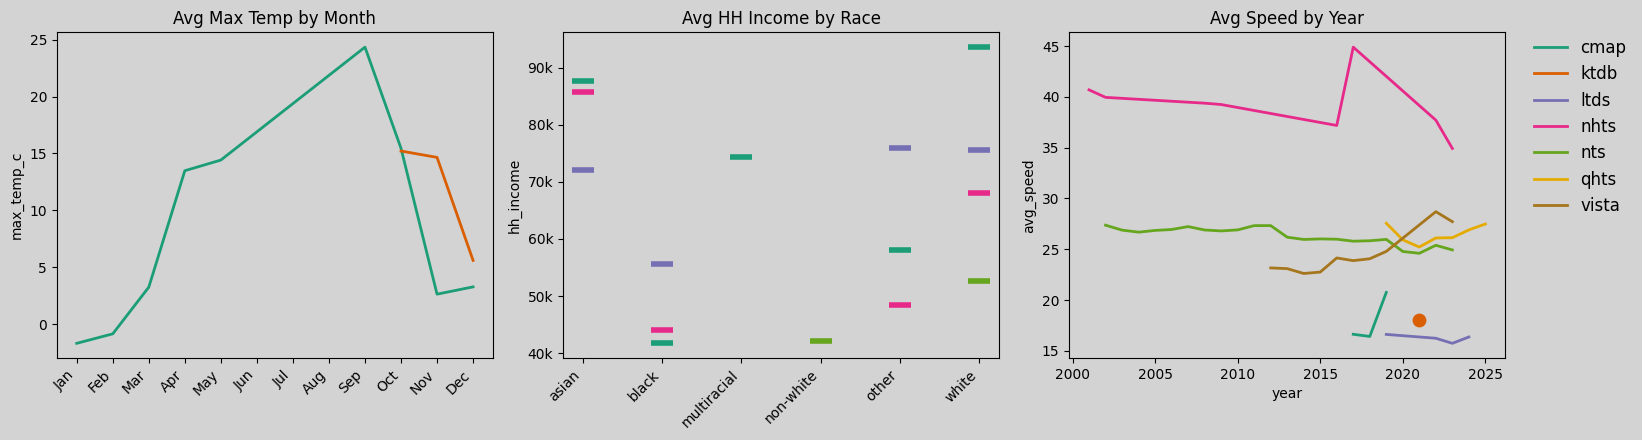
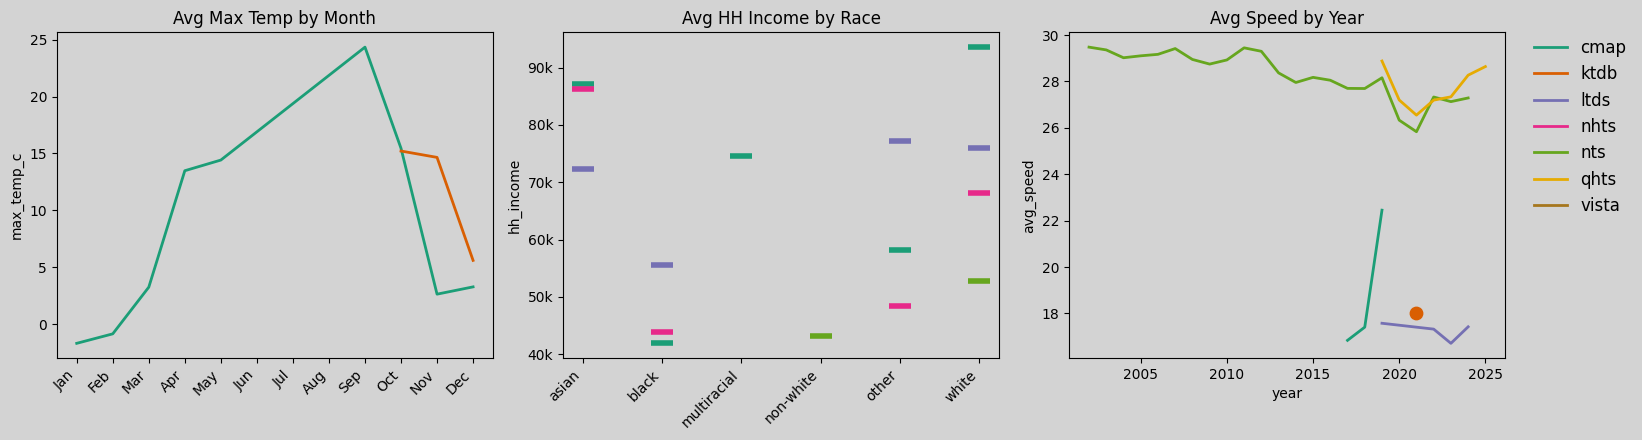
upated for latest

diff --git a/README.md b/README.md
@@ -4,16 +4,16 @@ Foundata is a pipeline for creating reconciled household travel surveys, aimed a
 
 ### Progress
 
-| source | persons | missing data     | trips   | kms (millions) |
-|--------|---------|-----------|---------|-----------------|
-| London UK (LTDS)   | 71,725  | 35%      | 138,735 | 1.4        |
-| UK (NTS)    | 2,676,737 | 22%    | 5,331,101 | 68.0   |
-| US (NHTS)   | 693,535 | 26%      | 2,412,825 | 37.7     |
-| Chicago US (CMAP)   | 31,540  | 5%       | 101,965 | 0.8        |
-| Victoria AUS (VISTA)  | 94,821  | 30%      | 257,557 | 2.5        |
-| Queensland AUS (QHTS)   | 51,481  | 34%      | 126,485 | 1.4        |
-| South Korea (KTDB)      | 133,326     | 38%      | 334,049 | 1.6        |
-| **total** | **3,636,976** | **23.5%** | **8,575,327** | **110.8** |
+| source | persons | missing data | trips | kms (millions) |
+|--------|---------|--------------|-------|----------------|
+| London UK (LTDS) | 71,725 | 34% | 138,735 | 1.4 |
+| UK (NTS) | 2,676,737 | 21% | 5,331,101 | 68.0 |
+| US (NHTS) | 693,535 | 29% | 2,512,825 | 37.7 |
+| Chicago US (CMAP) | 31,540 | 4% | 109,029 | 0.9 |
+| Victoria AUS (VISTA) | 94,821 | 33% | 257,557 | 2.5 |
+| Queensland AUS (QHTS) | 51,481 | 33% | 126,485 | 1.4 |
+| South Korea (KTDB) | 133,326 | 38% | 334,049 | 1.9 |
+| **total** | **3,753,165** | **23%** | **8,802,717** | **113.7** |
 
 
 ### Person Attributes Status